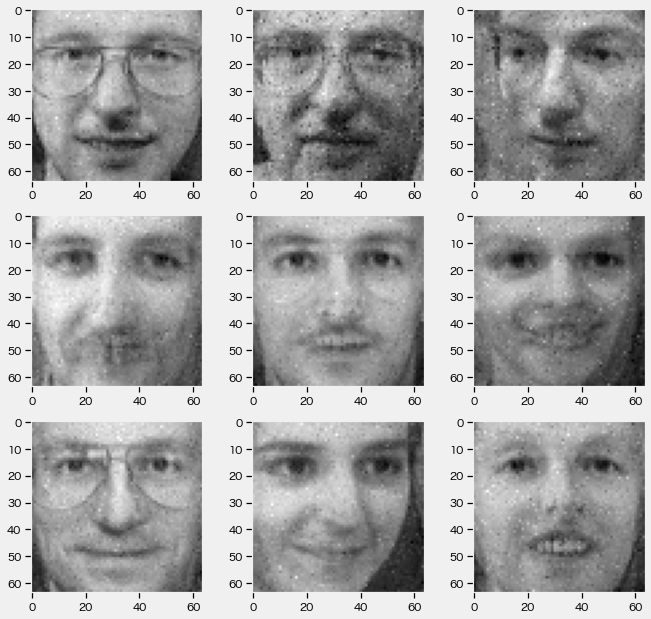
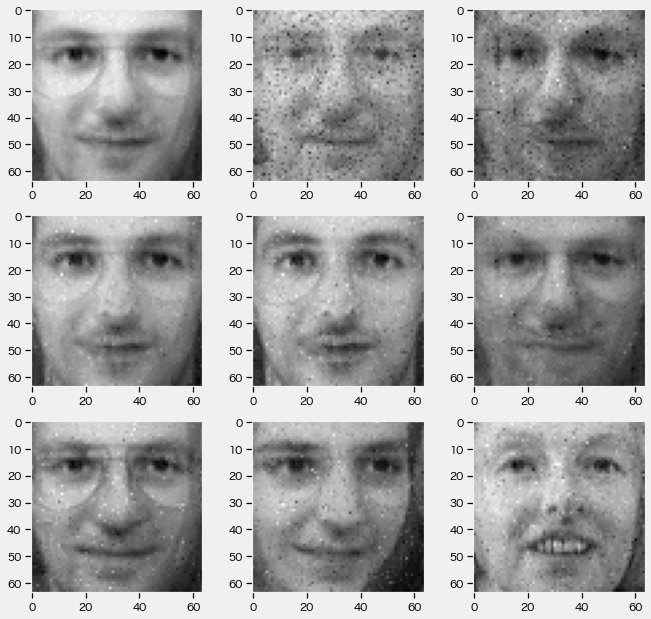
っd

diff --git a/docs/posts/linear_dim_reduction/index.html b/docs/posts/linear_dim_reduction/index.html
@@ -105,7 +105,7 @@
 潜在変数 $$ \quad X=[x_1,&hellip;,x_n] \quad x_n \in \mathbb{R}^M \\ \quad \textbf{W} \in \mathbb{R}^{M \times D} \quad (\textbf{W}_d \in \mathbb{R}^M \quad W の d 番⽬の列ベクトル)\\ \quad \mu \in \mathbb{R}^D $$
 パラメータ $$ \quad \sigma^2_y \in \mathbb{R}^&#43; \\ \Sigma_w \\ \Sigma_{\mu} $$"><meta itemprop="datePublished" content="2022-01-09T14:23:39+09:00" />
 <meta itemprop="dateModified" content="2022-01-09T14:23:39+09:00" />
-<meta itemprop="wordCount" content="472">
+<meta itemprop="wordCount" content="482">
 <meta itemprop="keywords" content="統計的推測,numpyro,機械学習,潜在変数,latent space," />
   
   <meta name="twitter:card" content="summary"/>
@@ -356,9 +356,9 @@ fig <span style="color:#f92672">=</span> plt<span style="color:#f92672">.</span>
     plt<span style="color:#f92672">.</span>grid(<span style="color:#66d9ef">None</span>)
 plt<span style="color:#f92672">.</span>show()
 </code></pre></div><p><img src="https://akira-hayasaka.github.io/web/posts/linear_dim_reduction/output0.png" alt="model"></p>
-<h3 id="reduce-4096-to-0005-20">reduce 4096 to 0.005% (20)</h3>
+<h3 id="reduce-4096-to-9">reduce 4096 to 9</h3>
 <div class="highlight"><pre tabindex="0" style="color:#f8f8f2;background-color:#272822;-moz-tab-size:4;-o-tab-size:4;tab-size:4"><code class="language-python" data-lang="python">D <span style="color:#f92672">=</span> imgs<span style="color:#f92672">.</span>shape[<span style="color:#ae81ff">1</span>]
-M <span style="color:#f92672">=</span> int(round(imgs<span style="color:#f92672">.</span>shape[<span style="color:#ae81ff">1</span>] <span style="color:#f92672">*</span> <span style="color:#ae81ff">0.005</span>))
+M <span style="color:#f92672">=</span> <span style="color:#ae81ff">9</span>
 print(<span style="color:#e6db74">&#34;reduce&#34;</span>, D, <span style="color:#e6db74">&#34;to&#34;</span>, M)
 </code></pre></div><div class="highlight"><pre tabindex="0" style="color:#f8f8f2;background-color:#272822;-moz-tab-size:4;-o-tab-size:4;tab-size:4"><code class="language-python" data-lang="python">guide <span style="color:#f92672">=</span> numpyro<span style="color:#f92672">.</span>infer<span style="color:#f92672">.</span>autoguide<span style="color:#f92672">.</span>AutoDelta(model)
 
@@ -389,6 +389,11 @@ fig <span style="color:#f92672">=</span> plt<span style="color:#f92672">.</span>
 plt<span style="color:#f92672">.</span>gray()    
 plt<span style="color:#f92672">.</span>show()
 </code></pre></div><p><img src="https://akira-hayasaka.github.io/web/posts/linear_dim_reduction/output1.png" alt="model"></p>
+<h2 id="解釈">解釈</h2>
+<p>$W$が(9, 4096)、$x_i$が(9, 1)なので、$N(\textbf{y}_n | \textbf{W}^T \textbf{x}_n + \mu, \sigma^2_y)$で、4096次元を9次元にエンコードし、そのコードから4096次元をデコードしました。</p>
+<p>ただこの場合、$W$の役割がよくわからない。$X$は各$x_i$に顔画像一枚のなんらかの情報をエンコードしてるんだろうけど、データ全体で共有される$W$は何を符号化したものなのか。（教えていただけると嬉しいです。）</p>
+<p><img src="https://akira-hayasaka.github.io/web/posts/linear_dim_reduction/output_w.png" alt="model"></p>
+<p>↑ が$W$を画像として表示したものです。それぞれの顔の特徴らしきものが見えるんだけど、、、</p>
 </section>
 
   

diff --git a/content/posts/linear_dim_reduction.md b/content/posts/linear_dim_reduction.md
@@ -169,11 +169,11 @@ plt.show()
 ```
 ![model](/posts/linear_dim_reduction/output0.png)
 
-### reduce 4096 to 0.005% (20)
+### reduce 4096 to 9
 
 ```python
 D = imgs.shape[1]
-M = int(round(imgs.shape[1] * 0.005))
+M = 9
 print("reduce", D, "to", M)
 ```
 
@@ -214,3 +214,12 @@ plt.show()
 
 ![model](/posts/linear_dim_reduction/output1.png)
 
+## 解釈
+
+$W$が(9, 4096)、$x_i$が(9, 1)なので、$N(\textbf{y}_n | \textbf{W}^T \textbf{x}_n + \mu, \sigma^2_y)$で、4096次元を9次元にエンコードし、そのコードから4096次元をデコードしました。
+
+ただこの場合、$W$の役割がよくわからない。$X$は各$x_i$に顔画像一枚のなんらかの情報をエンコードしてるんだろうけど、データ全体で共有される$W$は何を符号化したものなのか。（教えていただけると嬉しいです。）
+
+![model](/posts/linear_dim_reduction/output_w.png)
+
+↑ が$W$を画像として表示したものです。それぞれの顔の特徴らしきものが見えるんだけど、、、
